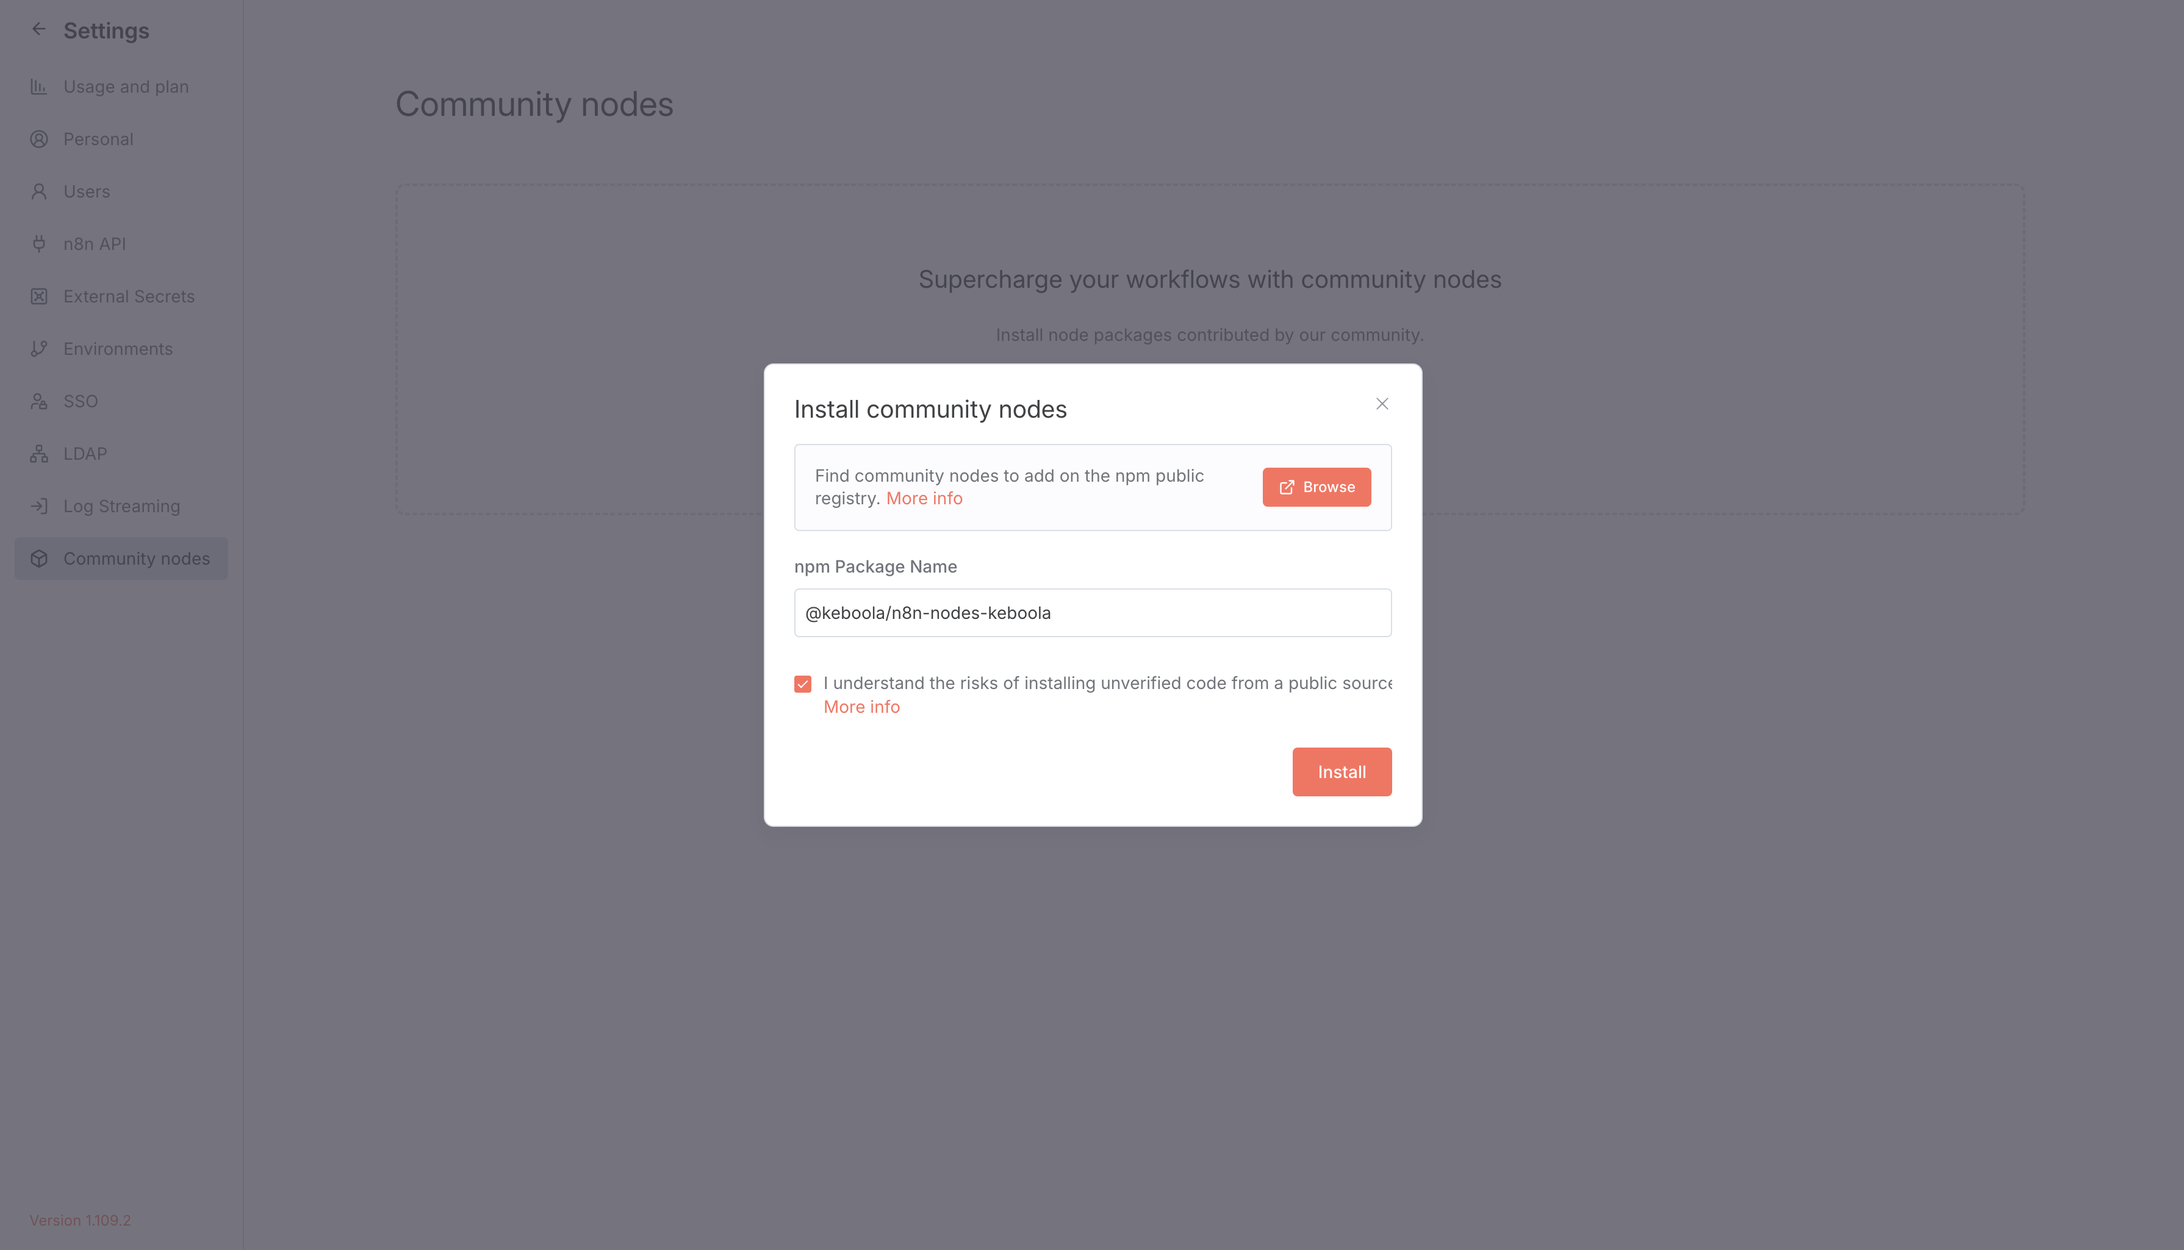
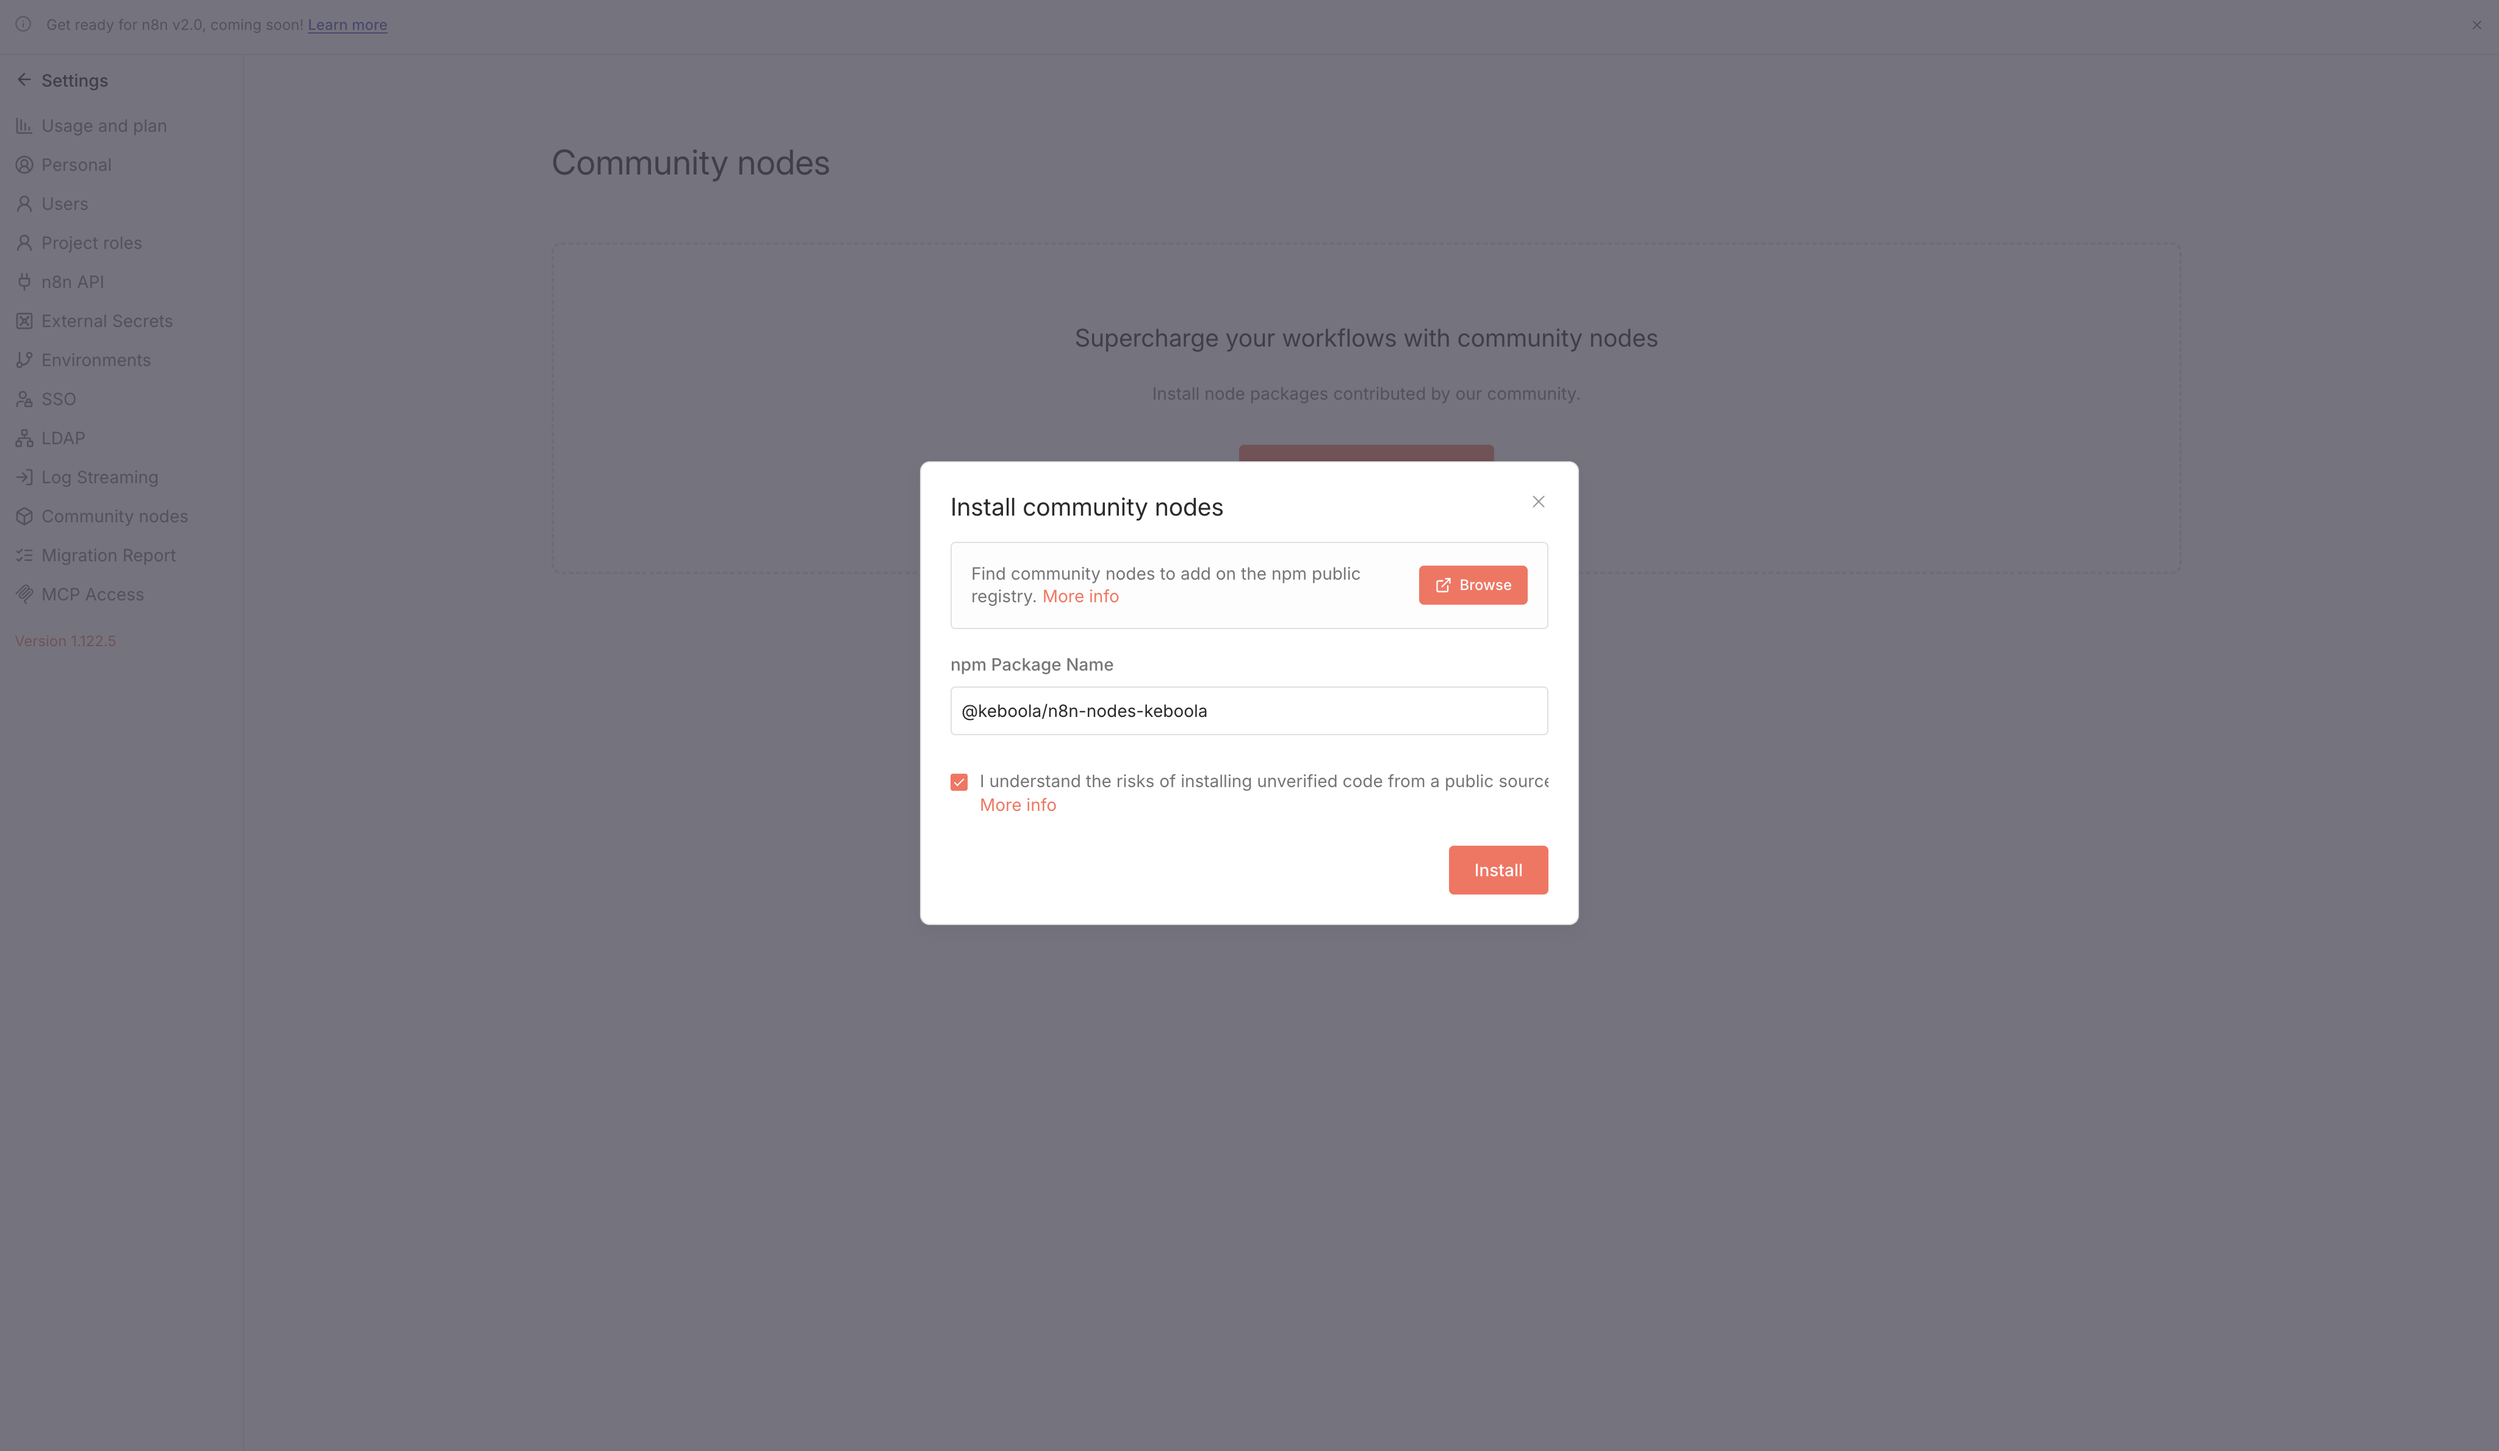
Updated documentation and removed github actions related to publishing. They will be replaced later

diff --git a/README.md b/README.md
@@ -79,7 +79,7 @@ n8n start
 If you modify the node, rebuild and restart:
 
 ```bash
-pnpm run build
+npm run build
 n8n start
 ```
 
@@ -154,9 +154,10 @@ This project uses GitHub Actions to publish releases to npm. To create a release
 1. Ensure `main` is up to date.
 2. Bump the version in `package.json` according to [semver](https://semver.org).
 3. Commit and push.
-4. Create a GitHub Release with the new version tag (e.g., `v1.0.0`).
+4. Create a GitHub Release with the new version tag (e.g., `v0.2.0`).
 
-The CI workflow will build, test, and publish automatically.
+The CI workflow will build and test the package. The publishing is currently done manually as the policies 
+related to company wide npm token policies has been changed.
 
 ## Version History
 
